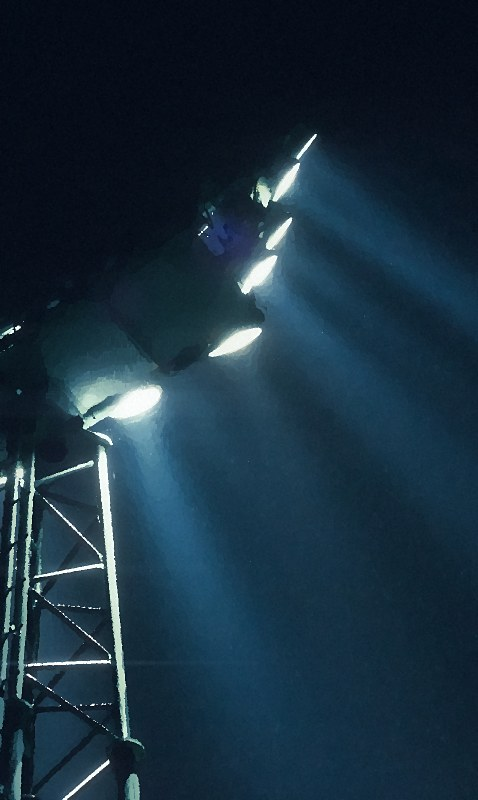
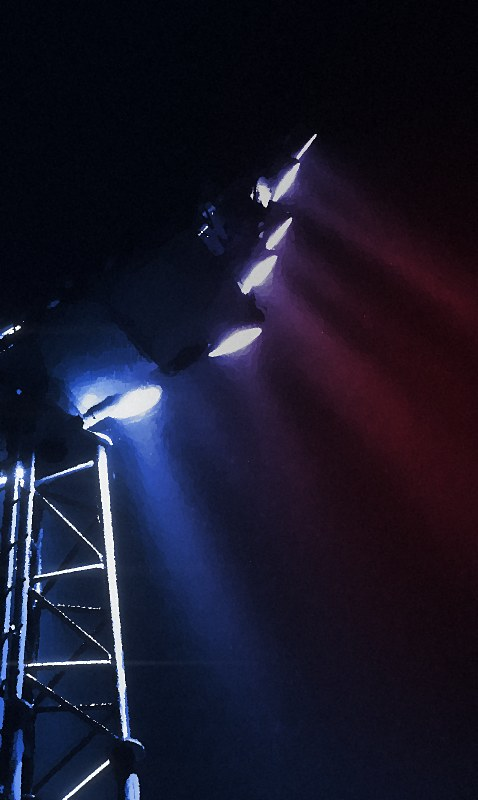
Side panels: stadium artwork in the SMJ brand colours
The eight side-panel paintings are relit in the brand palette the logo reel
already uses: a navy night in royal blue, red accent light, silver-white
floodlights. No more teal and green.

- tools/make_stadium_art.py: the grade maps brightness onto the brand blue and
  red ramps, with per-scene red glows; turf scenes that fought the palette are
  replaced (fog lights, roof curve) and the order is repaired
- assets/stadium: eight rebuilt pictures, CREDITS updated
- js/stadium.js, README, control panel hint: new file names and wording

Claude-Session: https://claude.ai/code/session_012iB8apJzEdmZQn2xmTUn8q

diff --git a/js/stadium.js b/js/stadium.js
@@ -1,15 +1,16 @@
 // Night-stadium artwork for the side panels (top.html, side-left.html, side-right.html).
-// Painted illustrations (478 x 800) in assets/stadium/, built by tools/make_stadium_art.py.
-// The panels rotate through this list: the left shows the 1st, 3rd, 5th... and the right
-// the 2nd, 4th... so the first two (the floodlight towers) open the show as a pair.
-// Add or remove a file name to change what shows. Sources: assets/stadium/CREDITS.txt.
+// Painted illustrations in the SMJ brand colours (478 x 800) in assets/stadium/, built by
+// tools/make_stadium_art.py. The panels rotate through this list: the left shows the 1st,
+// 3rd, 5th... and the right the 2nd, 4th... so the first two (the floodlight towers) open
+// the show as a pair. Add or remove a file name to change what shows.
+// Sources: assets/stadium/CREDITS.txt.
 window.SMJ_STADIUM_ART=[
   "01-floodlights.jpg",
   "02-light-tower.jpg",
   "03-football-night.jpg",
-  "04-ballpark-lights.jpg",
+  "04-light-banks.jpg",
   "05-stadium-skyline.jpg",
-  "06-light-banks.jpg",
-  "07-dome-lights.jpg",
+  "06-fog-lights.jpg",
+  "07-roof-curve.jpg",
   "08-roof-lights.jpg"
 ].map(f=>"assets/stadium/"+f);

diff --git a/js/control.js b/js/control.js
@@ -183,7 +183,7 @@ document.querySelectorAll("[data-topstats]").forEach(b=>b.addEventListener("clic
 
 // ---------- OBS sources ----------
 const SOURCES=[
-  ["Top overlay","top.html",1080,360,"The facecam row: painted night-stadium artwork on both sides, your facecam or logo reel in the middle, and spots sold on the right when it's on. Switches are on the Live Show panel"],
+  ["Top overlay","top.html",1080,360,"The facecam row: night-stadium artwork in your brand colors on both sides, your facecam or logo reel in the middle, and spots sold on the right when it's on. Switches are on the Live Show panel"],
   ["Spot board · 4 rows","board-4-rows.html",1080,680,"The full-size team board, always 4 rows"],
   ["Spot board · 3 rows","board-3-rows.html",1080,402,"Always 3 rows. Leaves room for the top overlay above it"],
   ["Spot board · 2 rows","board-2-rows.html",1080,252,"The compact board, always 2 rows"],

diff --git a/control.html b/control.html
@@ -59,7 +59,7 @@
 
     <section class="panel">
       <h2>Top Overlay</h2>
-      <p class="hint small">For the Top overlay in OBS: painted night-stadium artwork on both sides, facecam in the middle.</p>
+      <p class="hint small">For the Top overlay in OBS: night-stadium artwork in your brand colors on both sides, facecam in the middle.</p>
       <div class="toggle-row"><span>Camera</span><div class="buttons">
         <button type="button" data-facecam="camera">Live</button>
         <button type="button" data-facecam="logo">Not live (logo reel)</button>

diff --git a/tools/make_stadium_art.py b/tools/make_stadium_art.py
@@ -1,9 +1,10 @@
 """Builds the painted night-stadium artwork in assets/stadium (the side panels of the Top overlay).
 
 Each picture starts from a free Unsplash photo (listed in SCENES and in assets/stadium/CREDITS.txt),
-has any team or sponsor marks taken out, and is then repainted: layered brush strokes, a shared
-navy / steel-blue / gold night palette, glow and streaks from the lights, and a little canvas grain.
-So the panels read as one set of illustrations, not as photographs. Run:
+has any team or sponsor marks taken out, and is then repainted in the SMJ brand colours: layered
+brush strokes, a navy night lit in royal blue with red accent light and silver-white floodlights
+(the colours of the logo), glow from the lights, and a little canvas grain. So the panels read as
+one set of brand illustrations, not as photographs. Run:
 
   python3 tools/make_stadium_art.py            (all eight)
   python3 tools/make_stadium_art.py 03 07      (just those)
@@ -24,24 +25,38 @@ SRC = os.path.join(tempfile.gettempdir(), "smj-stadium-src")
 PW, PH = 478, 800          # final panel picture
 WW, WH = PW * 2, PH * 2    # working size
 
+# Brand palette, the same colours the logo reel uses (css/sources.css .fc-reel).
+# Each ramp runs from shadow to highlight; the picture's brightness picks the colour.
+STOPS = [0, 0.16, 0.40, 0.62, 0.82, 1]
+BLUE = ["#02040c", "#0a1736", "#1d4fd8", "#6f9dff", "#dfe6f2", "#ffffff"]   # navy -> royal blue -> silver -> white
+RED = ["#060205", "#3a0710", "#e0222f", "#ff7068", "#ffe6e1", "#ffffff"]    # the red accent light
+
 # name, photo id, crop (left, top, height as fractions of the photo; mirror), retouch steps, grade options.
 # Retouch steps use final-picture pixels:
 #   ("smear", (x0, y0, x1, y1), thickness)  turns a ribbon board along that line into a streak of light
 #   ("unmark", [(x, y), ...])               paints a logo off the turf inside that outline
-#   ("fill", (x0, y0, x1, y1))              paints a small mark out with what surrounds it
+# Grade options:
+#   red    glows of red light, each (centre x, centre y, radius x, radius y, strength) in fractions of the picture
+#   warmk  how strongly lights that were warm in the photo turn red (0 = everything stays blue)
 SCENES = [
-    ("01-floodlights", "photo-1509928015542-fcc9b3bcd048", (0.0, 0.0, 1.0, False), [], {}),
-    ("02-light-tower", "photo-1671723204288-1b3794effd87", (0.10, 0.0, 1.0, True), [], {}),
+    ("01-floodlights", "photo-1509928015542-fcc9b3bcd048", (0.0, 0.0, 1.0, False), [],
+     {"red": [(1.0, 0.50, 0.50, 0.45, 0.95)]}),
+    ("02-light-tower", "photo-1671723204288-1b3794effd87", (0.10, 0.0, 1.0, True), [],
+     {"red": [(0.10, 0.80, 0.50, 0.35, 0.95)]}),
     ("03-football-night", "photo-1584484530553-df6bbdc47c89", (0.559, 0.0, 0.70, False),
      [("smear", (0, 405, 478, 415), 30), ("smear", (230, 440, 478, 452), 30),
-      ("unmark", [(96, 716), (144, 716), (176, 728), (176, 744), (118, 744), (96, 726)])], {"turf": 0.22}),
-    ("04-ballpark-lights", "photo-1682384157113-47285026d285", (0.67, 0.07, 0.86, False),
-     [("smear", (78, 480, 478, 480), 30), ("fill", (0, 0, 84, 30))], {}),
-    ("05-stadium-skyline", "photo-1573838886533-c90767b6e60e", (0.126, 0.0, 1.0, False), [], {}),
-    ("06-light-banks", "photo-1556764420-e37ef4cdfa5c", (0.543, 0.086, 0.39, False), [], {}),
-    ("07-dome-lights", "photo-1787762001721-0f30c8b6af94", (0.50, 0.10, 0.90, False),
-     [("smear", (60, 570, 250, 578), 22), ("smear", (340, 598, 478, 604), 24)], {"turf": 0.30}),
-    ("08-roof-lights", "photo-1489944440615-453fc2b6a9a9", (0.80, 0.0, 1.0, False), [], {}),
+      ("unmark", [(96, 716), (144, 716), (176, 728), (176, 744), (118, 744), (96, 726)])],
+     {"red": [(1.0, 0.56, 0.60, 0.20, 0.9)], "warmk": 0.2}),
+    ("04-light-banks", "photo-1556764420-e37ef4cdfa5c", (0.543, 0.086, 0.39, False), [],
+     {"red": [(0.0, 0.80, 0.40, 0.30, 0.95)]}),
+    ("05-stadium-skyline", "photo-1573838886533-c90767b6e60e", (0.126, 0.0, 1.0, False), [],
+     {"red": [(0.5, 1.05, 0.90, 0.30, 0.9)], "warmk": 0.8}),
+    ("06-fog-lights", "photo-1638573615178-6f2950746614", (0.345, 0.0, 1.0, False), [],
+     {"red": [(0.0, 0.62, 0.45, 0.25, 0.6)], "warmk": 1.0}),
+    ("07-roof-curve", "photo-1568101794887-a7a3f149f6e6", (0.40, 0.10, 0.80, False), [],
+     {"red": [(0.0, 0.85, 0.55, 0.30, 0.75)]}),
+    ("08-roof-lights", "photo-1489944440615-453fc2b6a9a9", (0.80, 0.0, 1.0, False), [],
+     {"red": [(0.95, 0.65, 0.50, 0.30, 0.9)]}),
 ]
 
 
@@ -72,6 +87,17 @@ def lum(f):
     return f[..., 0] * 0.114 + f[..., 1] * 0.587 + f[..., 2] * 0.299
 
 
+def bgr(hexcolor):
+    h = hexcolor.lstrip("#")
+    return np.array([int(h[4:6], 16), int(h[2:4], 16), int(h[0:2], 16)], np.float32) / 255.0
+
+
+def ramp(L, colors):
+    """Colour for each brightness L (0..1) along one of the brand ramps."""
+    c = np.stack([bgr(x) for x in colors])
+    return np.stack([np.interp(L, np.array(STOPS, np.float32), c[:, k]) for k in range(3)], -1)
+
+
 def tone(im, mean=0.20):
     """Even out exposure so every scene sits in the same night range."""
     f = im.astype(np.float32) / 255.0
@@ -100,17 +126,13 @@ def retouch(im, ops):
     for op in ops:
         if op[0] == "unmark":
             im = unmark(im, op[1])
-            continue
-        x0, y0, x1, y1 = [int(round(v * k)) for v in op[1]]
-        mask = np.zeros(im.shape[:2], np.uint8)
-        if op[0] == "smear":
+        elif op[0] == "smear":
+            x0, y0, x1, y1 = [int(round(v * k)) for v in op[1]]
+            mask = np.zeros(im.shape[:2], np.uint8)
             cv2.line(mask, (x0, y0), (x1, y1), 255, int(round(op[2] * k)))
             sm = cv2.blur(cv2.blur(im, (121, 3)), (121, 3))
             m = cv2.GaussianBlur(mask, (0, 0), 3).astype(np.float32)[..., None] / 255.0
             im = (im * (1 - m) + sm * m).astype(np.uint8)
-        elif op[0] == "fill":
-            cv2.rectangle(mask, (x0, y0), (x1, y1), 255, -1)
-            im = cv2.inpaint(im, mask, 11, cv2.INPAINT_TELEA)
     return im
 
 
@@ -132,36 +154,35 @@ def paint(im, coarse=9, mid=5, fine=2):
     return np.clip(out, 0, 255).astype(np.uint8)
 
 
-def grade(im, sat=1.22, glow=1.0, tint=0.30, turf=0.16, seed=1):
-    """Night grade: navy shadows, a shared blue-to-gold palette, bloom and light streaks, canvas grain."""
+def grade(im, red=(), warmk=0.6, keep=0.12, glow=1.0, seed=1):
+    """Brand grade: the whole picture is relit in navy and royal blue, with red accent light where
+    `red` puts it (and on lights that were warm in the photo), silver-white floodlights, bloom and grain."""
+    h, w = im.shape[:2]
     f = im.astype(np.float32) / 255.0
     s = f * f * (3 - 2 * f)
-    f = f * 0.65 + s * 0.35                                           # contrast
-    L = lum(f)[..., None]
-    f = np.clip(L + (f - L) * sat, 0, 1)                              # saturation
-    # fields: pull yellow-green turf toward a deeper night green
-    b, g_, r = f[..., 0], f[..., 1], f[..., 2]
-    green = np.clip((g_ - np.maximum(r * 0.92, b)) / np.maximum(g_, 1e-3) / 0.22, 0, 1)
-    f = np.stack([(b + green * 0.04 * g_) * (1 - turf * 0.6 * green), g_ * (1 - turf * green),
-                  r * (1 - 0.42 * green) * (1 - turf * 0.6 * green)], -1)
-    # shared palette (BGR): navy -> steel blue -> warm gold -> white, mixed in by `tint`
+    f = f * 0.6 + s * 0.4                                             # contrast
     L = lum(f)
-    stops = np.array([0, 0.35, 0.75, 1.0], np.float32)
-    pal = np.array([[0.085, 0.035, 0.012], [0.52, 0.30, 0.12], [0.62, 0.82, 0.98], [1, 1, 1]], np.float32)
-    tri = np.stack([np.interp(L, stops, pal[:, c]) for c in range(3)], -1)
-    f = f * (1 - tint) + tri * tint
-    L = lum(f)[..., None]
-    f = np.clip(f + (1 - L) ** 3 * np.array([0.06, 0.028, 0.008], np.float32), 0, 1)   # lift shadows to navy
-    # bloom: only from real lights (very bright and close to white)
-    mx = f.max(-1, keepdims=True)
-    mn = f.min(-1, keepdims=True)
-    white = 1 - np.clip((mx - mn) / np.maximum(mx, 1e-3) / 0.55, 0, 1)
-    bright = f * np.clip((lum(f)[..., None] - 0.80) / 0.20, 0, 1) ** 1.5 * white
+    b, g_, r = f[..., 0], f[..., 1], f[..., 2]
+    mx = f.max(-1)
+    warm = np.clip(((r - np.maximum(b, g_ * 0.9)) / np.maximum(mx, 1e-3) - 0.04) / 0.35, 0, 1) * np.clip(mx / 0.25, 0, 1)
+    yy, xx = np.mgrid[0:h, 0:w].astype(np.float32)
+    xx /= w
+    yy /= h
+    wr = cv2.GaussianBlur(warm, (0, 0), 5) * warmk                    # how red each spot is, 0..1
+    for cx, cy, rx, ry, strength in red:
+        wr = wr + strength * np.exp(-((xx - cx) / rx) ** 2 - ((yy - cy) / ry) ** 2)
+    wr = np.clip(wr, 0, 1)[..., None]
+    # the power keeps the blue-to-red crossover dark instead of purple
+    mapped = ramp(L, BLUE) * (1 - wr) ** 1.4 + ramp(L, RED) * wr ** 1.4
+    f = f * keep + mapped * (1 - keep)
+    # bloom from the lights: white core, wider glow in the local light colour, a thin silver streak
+    bright = f * np.clip((lum(f)[..., None] - 0.80) / 0.20, 0, 1) ** 1.5
     b1 = cv2.GaussianBlur(bright, (0, 0), 9)
     b2 = cv2.GaussianBlur(bright, (0, 0), 34)
     b3 = cv2.GaussianBlur(bright, (0, 0), 100)
-    streak = cv2.GaussianBlur(bright, (0, 0), sigmaX=170, sigmaY=2.0) * np.array([1.0, 0.82, 0.62], np.float32)
-    add = (0.7 * b1 + 0.9 * b2 + 0.9 * b3 + 0.5 * streak) * glow
+    tint = bgr("#7fa8ff") * (1 - wr) + bgr("#ff6a66") * wr
+    streak = cv2.GaussianBlur(bright, (0, 0), sigmaX=170, sigmaY=2.0) * bgr("#dfe6f2")
+    add = (0.7 * b1 + 0.9 * b2 * (0.5 + 0.5 * tint) + 1.1 * b3 * tint + 0.5 * streak) * glow
     f = 1 - (1 - f) * (1 - np.clip(add, 0, 1))
     rng = np.random.default_rng(seed)                                 # canvas grain
     grain = cv2.GaussianBlur(rng.standard_normal(f.shape[:2]).astype(np.float32), (0, 0), 1.1)
